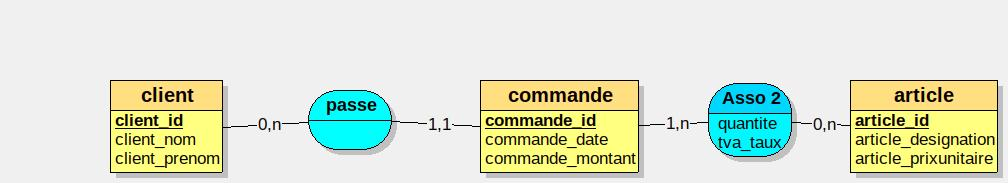
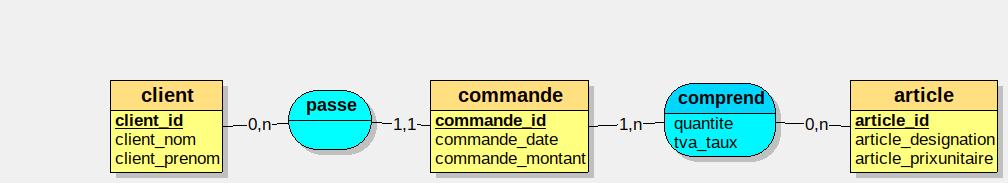
1st exercices in md

Changed region(s): [[0.2153, 0.4372, 0.8611, 0.9836]]

diff --git a/Exos/MCD/1 - Concevoir une base de données/Eval MCD/Ex2.md b/Exos/MCD/1 - Concevoir une base de données/Eval MCD/Ex2.md
@@ -1,0 +1,56 @@
+# Modèle physique
+```sql
+client = (client_id COUNTER, client_nom VARCHAR(50), client_prenom VARCHAR(50));
+commande = (commande_id COUNTER, commande_date DATETIME, commande_montant DOUBLE, #client_id);
+article = (article_id COUNTER, article_designation VARCHAR(50), article_prixunitaire DOUBLE);
+comprend = (#commande_id, #article_id, quantite INT, tva_taux DECIMAL(15,2));
+```
+
+# Explications
+
+## Associations
+    • L’association « passe » : clé primaire « client_id » dans la table « commande » comme clé étrangère.
+    • L’association « comprend » : devient une table qui va comprendre les clés étrangères « commande_id » et « article_id » qui constitueront une clé primaire.
+
+
+## Clés primaires / étrangères
+    • Les champs « client_id », « commande_id » et « article_id » sont des clés primaires qui représentent des identifiants uniques afin de facilement retrouver les objets recherchés, sans risque de doublons.
+    • La table « comprend » contient une clé primaire composée des clés étrangères « commande_id » et « article_id ». Il ne peut donc y avoir de doublon dans la commande.
+
+# SCRIPT
+```sql
+CREATE TABLE client(
+   client_id COUNTER,
+   client_nom VARCHAR(50),
+   client_prenom VARCHAR(50),
+   PRIMARY KEY(client_id)
+);
+
+CREATE TABLE commande(
+   commande_id COUNTER,
+   commande_date DATETIME,
+   commande_montant DOUBLE,
+   client_id INT NOT NULL,
+   PRIMARY KEY(commande_id),
+   FOREIGN KEY(client_id) REFERENCES client(client_id)
+);
+
+CREATE TABLE article(
+   article_id COUNTER,
+   article_designation VARCHAR(50),
+   article_prixunitaire DOUBLE,
+   PRIMARY KEY(article_id)
+);
+
+CREATE TABLE comprend(
+   commande_id INT,
+   article_id INT,
+   quantite INT,
+   tva_taux DECIMAL(15,2),
+   PRIMARY KEY(commande_id, article_id),
+   FOREIGN KEY(commande_id) REFERENCES commande(commande_id),
+   FOREIGN KEY(article_id) REFERENCES article(article_id)
+);
+```
+<!-- ![MCDEx2](/home/alex/AFPA/CDA/Exos/MCD/1 - Concevoir une base de données/Eval MCD/MCD Ex2.jpg) -->
+<img src="/home/alex/AFPA/CDA/Exos/MCD/1 - Concevoir une base de données/Eval MCD/MCD Ex2.jpg">

diff --git a/Exos/MCD/1 - Concevoir une base de données/Eval MCD/Ex1.md b/Exos/MCD/1 - Concevoir une base de données/Eval MCD/Ex1.md
@@ -1,0 +1,69 @@
+# Disctionnaire de données
+
+## Table abonne
+Codification | Type | Contraintes
+---------|----------| -----------
+ abonné_id | INT AUTOINCREMENT| PRIMARY KEY
+ abonne_nom | VARCHAR (50) 
+ abonne_prenom | VARCHAR (50)
+ abonne_adresse | VARCHAR (150)
+ abonne_numerotelephone | VARCHAR (20)
+ abonne_dateabonnement | DATETIME
+
+
+## Table Livre
+Codification | Type | Contraintes
+---------|----------| -----------
+ livre_id | INT AUTOINCREMENT| PRIMARY KEY
+ livre_titre | VARCHAR (50) 
+ livre_auteurid | VARCHAR (50) | FOREIGN KEY
+ livre_editeurid | VARCHAR (150) | FOREIGN KEY
+ livre_theme | VARCHAR (50) / INT
+ livre_datemiserebut | DATETIME
+
+
+## Table Emprunt
+ Codification | Type | Contraintes | Règles
+---------|----------| -----------|----------
+ emprunt_id | INT AUTOINCREMENT| PRIMARY KEY | 1 seul livre à la fois
+ emprunt_livreid | VARCHAR (50) / INT | FOREIGN KEY
+ emprunt_dateretour | DATETIME
+ emprunt_datemax | DATETIME | | Date d’emprunt + 14 jours
+ emprunt_daterelance1 | DATETIME
+ emprunt_daterelance2 | DATETIME
+ emprunt_daterelance3 | DATETIME | | l’abonné ne peut plus emprunter de livres
+
+
+## Table Auteur
+Codification | Type | Contraintes
+---------|----------| -----------
+ auteur_id | INT AUTOINCREMENT| PRIMARY KEY
+ auteur_nom | VARCHAR (50) 
+ auteur_prenom | VARCHAR (50) 
+
+
+## Table Editeur
+Codification | Type | Contraintes
+---------|----------| -----------
+ editeur_id | INT AUTOINCREMENT| PRIMARY KEY
+ editeur_nom | VARCHAR (50) 
+
+
+## Table Thème
+Codification | Type | Contraintes
+---------|----------| -----------
+ theme_id | INT AUTOINCREMENT| PRIMARY KEY
+ theme_nom | VARCHAR (50) 
+ theme_couleurid | VARCHAR (50) / INT | FOREIGN KEY
+
+
+## Table Couleur
+Codification | Type | Contraintes
+---------|----------| -----------
+ couleur_id | INT AUTOINCREMENT| PRIMARY KEY
+ couleur_nom | VARCHAR (50) 
+
+
+# MCD
+
+<img src="/home/alex/AFPA/CDA/Exos/MCD/1 - Concevoir une base de données/Eval MCD/MCD Ex1.jpg">
